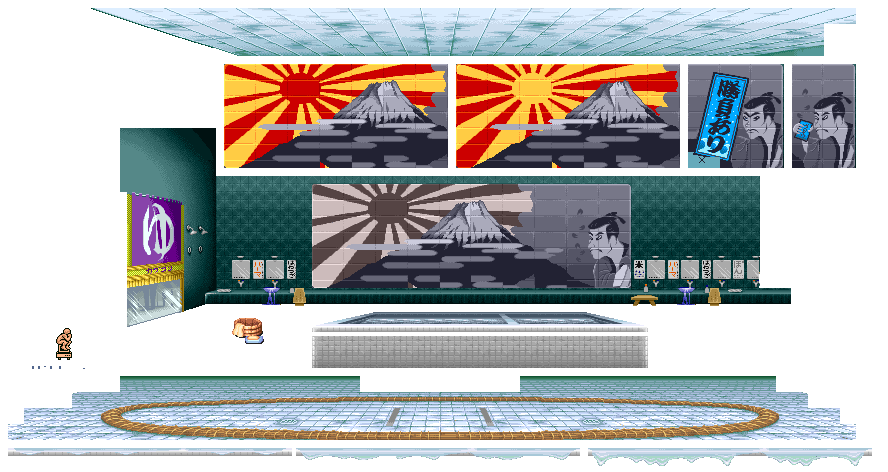
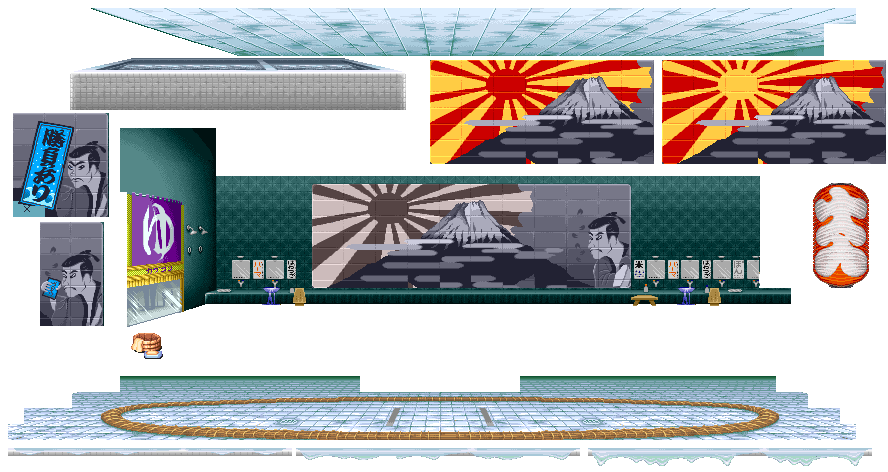
Honda stage

diff --git a/SDL Game 2 - Master - Handout/ModulePlayer.cpp b/SDL Game 2 - Master - Handout/ModulePlayer.cpp
@@ -30,13 +30,15 @@ ModulePlayer::ModulePlayer(bool start_enabled) : Module(start_enabled)
 	backward.speed = 0.1f;
 
 	// TODO 8: setup the walk forward animation from ryu4.png
-	forward.frames.push_back({ 0, 131, 61, 87 });
-	forward.frames.push_back({ 70, 129, 59, 90 });
-	forward.frames.push_back({ 140, 128, 57, 90 });
-	forward.frames.push_back({ 797, 127, 57, 90 });
-	forward.frames.push_back({ 883, 128, 58, 91 });
-	forward.frames.push_back({ 974, 129, 57, 89 });
+	forward.frames.push_back({ 0, 127, 68, 93 });
+	forward.frames.push_back({ 78, 127, 68, 93 });
+	forward.frames.push_back({ 161, 127, 68, 93 });
+	forward.frames.push_back({ 251, 127, 73, 93 });
+	forward.frames.push_back({ 341, 127, 68, 93 });
+	forward.frames.push_back({ 419, 127, 68, 93 });
 	forward.speed = 0.1f;
+
+	currentAnimation = &forward;
 }
 
 ModulePlayer::~ModulePlayer()
@@ -50,6 +52,8 @@ bool ModulePlayer::Start()
 	LOG("Loading player");
 
 	graphics = App->textures->Load("ryu4.png"); // arcade version
+
+	playerX = 80;
 
 	return true;
 }
@@ -70,7 +74,62 @@ update_status ModulePlayer::Update()
 	// TODO 9: Draw the player with its animation
 	// make sure to detect player movement and change its
 	// position while cycling the animation(check Animation.h)
-	App->renderer->Blit(graphics, 80, 104, &(idle.GetCurrentFrame()), 0.87f); // flag animation
+	if (App->input->GetKey(SDL_SCANCODE_A) == KEY_DOWN || App->input->GetKey(SDL_SCANCODE_A) == KEY_REPEAT)
+	{
+		if (App->input->GetKey(SDL_SCANCODE_A) == KEY_DOWN)
+			backward.ResetAnimation();
+
+		playerX -= (int)playerMovement;
+		App->renderer->Blit(graphics, playerX, 104, &(backward.GetCurrentFrame()), 0.87f);
+	}
+	else if (App->input->GetKey(SDL_SCANCODE_A) == KEY_UP)
+	{
+		idle.ResetAnimation();
+		App->renderer->Blit(graphics, playerX, 104, &(idle.GetCurrentFrame()), 0.87f);
+	}
+	else if (App->input->GetKey(SDL_SCANCODE_D) == KEY_DOWN || App->input->GetKey(SDL_SCANCODE_D) == KEY_REPEAT)
+	{
+		if (App->input->GetKey(SDL_SCANCODE_D) == KEY_DOWN)
+			forward.ResetAnimation();
+
+		playerX += (int)playerMovement;
+		App->renderer->Blit(graphics, playerX, 104, &(forward.GetCurrentFrame()), 0.87f);
+	}
+	else if (App->input->GetKey(SDL_SCANCODE_D) == KEY_UP)
+	{
+		idle.ResetAnimation();
+		App->renderer->Blit(graphics, playerX, 104, &(idle.GetCurrentFrame()), 0.87f);
+	}
+	else
+	{
+		App->renderer->Blit(graphics, playerX, 104, &(idle.GetCurrentFrame()), 0.87f);
+	}
+
+	/*if (App->input->GetKey(SDL_SCANCODE_F) == KEY_DOWN)
+	{
+		currentAnimation = &forward;
+	}
+
+	if (App->input->GetKey(SDL_SCANCODE_I) == KEY_DOWN)
+	{
+		currentAnimation = &idle;
+	}
+
+	if (App->input->GetKey(SDL_SCANCODE_B) == KEY_DOWN)
+	{
+		currentAnimation = &backward;
+	}
+
+	if (App->input->GetKey(SDL_SCANCODE_A) == KEY_DOWN )
+	{
+		currentAnimation->PriorFrame();
+	}
+	else if (App->input->GetKey(SDL_SCANCODE_D) == KEY_DOWN)
+	{
+		currentAnimation->NextFrame();
+	}
+
+	App->renderer->Blit(graphics, playerX, 104, &(currentAnimation->GetFrame()), 0.87f);*/
 
 	return UPDATE_CONTINUE;
 }

diff --git a/SDL Game 2 - Master - Handout/ModuleSceneHonda.cpp b/SDL Game 2 - Master - Handout/ModuleSceneHonda.cpp
@@ -1,0 +1,103 @@
+#include "Globals.h"
+#include "Application.h"
+#include "ModuleSceneHonda.h"
+#include "ModuleRender.h"
+#include "ModuleTextures.h"
+#include "ModulePlayer.h"
+#include "ModuleInput.h"
+#include "ModuleAudio.h"
+#include "ModuleFadeToBlack.h"
+#include "SDL/include/SDL.h"
+
+ModuleSceneHonda::ModuleSceneHonda(bool start_enabled): Module(start_enabled)
+{
+	// ground
+	ground.x = 8;
+	ground.y = 376;
+	ground.w = 847;
+	ground.h = 63;
+
+	//background
+	background.x = 120;
+	background.y = 128;
+	background.w = 670;
+	background.h = 198;
+
+	//ceiling
+	ceiling.x = 91;
+	ceiling.y = 8;
+	ceiling.w = 764;
+	ceiling.h = 47;
+
+	//pool
+	pool.x = 70;
+	pool.y = 58;
+	pool.w = 335;
+	pool.h = 50;
+
+	//lamp
+	lamp.x = 813;
+	lamp.y = 183;
+	lamp.w = 55;
+	lamp.h = 104;
+
+	// water animation
+	water.frames.push_back({ 0, 0, 0, 0 });
+	water.frames.push_back({ 8, 448, 283, 17 });
+	water.frames.push_back({ 296, 448, 283, 17 });
+	water.frames.push_back({ 588, 448, 283, 17 });
+	water.speed = 0.05f;
+}
+
+
+ModuleSceneHonda::~ModuleSceneHonda()
+{
+}
+
+// Load assets
+bool ModuleSceneHonda::Start()
+{
+	LOG("Loading honda scene");
+
+	graphics = App->textures->Load("honda_stage.png");
+
+	App->player->Enable();
+	App->audio->PlayMusic("honda.ogg");
+
+	return true;
+}
+
+// UnLoad assets
+bool ModuleSceneHonda::CleanUp()
+{
+	LOG("Unloading honda scene");
+
+	App->textures->Unload(graphics);
+	App->player->Disable();
+
+	return true;
+}
+
+// Update: draw background
+update_status ModuleSceneHonda::Update()
+{
+	// Draw everything --------------------------------------
+	App->renderer->Blit(graphics, -9, 174, &ground); // floor
+	App->renderer->Blit(graphics, 47, -1, &background, 0.75f); //background
+	App->renderer->Blit(graphics, 0, 0, &ceiling, 0.75f); //ceiling
+	App->renderer->Blit(graphics, 285, 143, &pool); //pool
+	App->renderer->Blit(graphics, 310, 155, &(water.GetCurrentFrame())); // pool animation
+	App->renderer->Blit(graphics, 155, 10, &lamp); //lamp1
+	App->renderer->Blit(graphics, 675, 10, &lamp); //lamp2
+
+
+	// TODO 11: Make that pressing space triggers a switch to ken logic module
+	// using FadeToBlack module
+	if (App->input->GetKey(SDL_SCANCODE_SPACE) == KEY_DOWN)
+	{
+		App->fade->FadeToBlack(App->scene_ken, this);
+		App->fade->Enable();
+	}
+
+	return UPDATE_CONTINUE;
+}

diff --git a/SDL Game 2 - Master - Handout/ModuleSceneKen.cpp b/SDL Game 2 - Master - Handout/ModuleSceneKen.cpp
@@ -61,7 +61,8 @@ bool ModuleSceneKen::Start()
 	// TODO 7: Enable the player module
 	App->player->Enable();
 	// TODO 0: trigger background music
-	
+	App->audio->PlayMusic("ken.ogg");
+
 	return true;
 }
 
@@ -101,15 +102,15 @@ update_status ModuleSceneKen::Update()
 
 	// Draw everything --------------------------------------
 	// TODO 1: Tweak the movement speed of the sea&sky + flag to your taste
-	App->renderer->Blit(graphics, 0, 0, &background, 0.75f); // sea and sky
-	App->renderer->Blit(graphics, 560, 8, &(flag.GetCurrentFrame()), 0.75f); // flag animation
+	//App->renderer->Blit(graphics, 0, 0, &background, 0.75f); // sea and sky
+	//App->renderer->Blit(graphics, 560, 8, &(flag.GetCurrentFrame()), 0.75f); // flag animation
 
 	// TODO 3: Draw the ship. Be sure to tweak the speed.
 	
-	App->renderer->Blit(graphics, 0, (int)yShipOffset, &ship, 0.87f); // sea and sky
+	//App->renderer->Blit(graphics, 0, (int)yShipOffset, &ship, 0.87f); // sea and sky
 
 	// TODO 6: Draw the girl. Make sure it follows the ship movement!
-	App->renderer->Blit(graphics, 192, 104 + (int)yShipOffset, &(shipGirl.GetCurrentFrame()), 0.87f); // flag animation
+	//App->renderer->Blit(graphics, 192, 104 + (int)yShipOffset, &(shipGirl.GetCurrentFrame()), 0.87f); // flag animation
 
 	App->renderer->Blit(graphics, 0, 170, &ground);
 
@@ -118,6 +119,12 @@ update_status ModuleSceneKen::Update()
 
 	// TODO 11: Make that pressing space triggers a switch to honda logic module
 	// using FadeToBlack module
+	if (App->input->GetKey(SDL_SCANCODE_SPACE) == KEY_DOWN)
+	{
+		App->fade->FadeToBlack(App->scene_honda, this);
+		App->fade->Enable();
+	}
+		
 
 	return UPDATE_CONTINUE;
 }

diff --git a/SDL Game 2 - Master - Handout/Application.cpp b/SDL Game 2 - Master - Handout/Application.cpp
@@ -5,7 +5,6 @@
 #include "ModuleInput.h"
 #include "ModuleAudio.h"
 #include "ModuleFadeToBlack.h"
-#include "ModuleSceneKen.h"
 #include "ModulePlayer.h"
 
 using namespace std;
@@ -22,6 +21,7 @@ Application::Application()
 
 	// Game Modules
 	modules.push_back(scene_ken = new ModuleSceneKen(false));
+	modules.push_back(scene_honda = new ModuleSceneHonda(false));
 	modules.push_back(player = new ModulePlayer(false));
 	
 	modules.push_back(fade = new ModuleFadeToBlack());
@@ -47,7 +47,7 @@ bool Application::Init()
 	}
 
 	// Start the first scene --
-	fade->FadeToBlack(scene_ken, nullptr, 3.0f);
+	fade->FadeToBlack(scene_honda, nullptr, 3.0f);
 
 	return ret;
 }

diff --git a/SDL Game 2 - Master - Handout/Animation.h b/SDL Game 2 - Master - Handout/Animation.h
@@ -16,11 +16,34 @@ public:
 	Animation() : frames(), speed(1.0f), current_frame(0.0f)
 	{}
 
+	
+
 	SDL_Rect& GetCurrentFrame()
 	{
 		current_frame += speed;
 		if(current_frame >= frames.size())
 			current_frame = 0.0f;
+		return frames[(int)current_frame];
+	}
+
+	void ResetAnimation() { current_frame = 0.0f; }
+
+	void NextFrame()
+	{
+		current_frame += 1.0f;
+		if (current_frame >= frames.size())
+			current_frame = 0.0f;
+	}
+
+	void PriorFrame()
+	{
+		current_frame -= 1.0f;
+		if (current_frame < 0.0f)
+			current_frame = frames.size() - 1.0f;
+	}
+
+	SDL_Rect& GetFrame()
+	{
 		return frames[(int)current_frame];
 	}
 };

diff --git a/SDL Game 2 - Master - Handout/Application.h b/SDL Game 2 - Master - Handout/Application.h
@@ -4,6 +4,8 @@
 #include<list>
 #include "Globals.h"
 #include "Module.h"
+#include "ModuleSceneKen.h"
+#include "ModuleSceneHonda.h"
 
 class ModuleRender;
 class ModuleWindow;
@@ -12,7 +14,8 @@ class ModuleInput;
 class ModuleAudio;
 class ModuleFadeToBlack;
 class ModulePlayer;
-class ModuleSceneKen;
+//class ModuleSceneKen;
+//class ModuleSceneHonda;
 
 class Application
 {
@@ -34,6 +37,7 @@ public:
 	ModuleFadeToBlack* fade;
 	ModulePlayer* player;
 	ModuleSceneKen* scene_ken;
+	ModuleSceneHonda* scene_honda;
 
 private:
 

diff --git a/SDL Game 2 - Master - Handout/ModuleSceneHonda.h b/SDL Game 2 - Master - Handout/ModuleSceneHonda.h
@@ -1,0 +1,27 @@
+#pragma once
+#include "Module.h"
+#include "Animation.h"
+#include "Globals.h"
+
+struct SDL_Texture;
+
+class ModuleSceneHonda : public Module
+{
+public:
+	ModuleSceneHonda(bool start_enabled = true);
+	~ModuleSceneHonda();
+
+	bool Start();
+	update_status Update();
+	bool CleanUp();
+
+	SDL_Texture* graphics = nullptr;
+	SDL_Rect ground;
+	SDL_Rect background;
+	SDL_Rect pool;
+	SDL_Rect ceiling;
+	SDL_Rect lamp;
+	Animation water;
+};
+
+

diff --git a/SDL Game 2 - Master - Handout/ModuleRender.cpp b/SDL Game 2 - Master - Handout/ModuleRender.cpp
@@ -93,7 +93,8 @@ bool ModuleRender::Blit(SDL_Texture* texture, int x, int y, SDL_Rect* section, f
 	bool ret = true;
 	SDL_Rect rect;
 	rect.x = (int)(camera.x * speed) + x * SCREEN_SIZE;
-	rect.y = (int)(camera.y * speed) + y * SCREEN_SIZE;
+	//rect.y = (int)(camera.y * speed) + y * SCREEN_SIZE;
+	rect.y =(camera.y) + y * SCREEN_SIZE;
 
 	if(section != NULL)
 	{

diff --git a/SDL Game 2 - Master - Handout/ModulePlayer.h b/SDL Game 2 - Master - Handout/ModulePlayer.h
@@ -10,6 +10,11 @@ struct SDL_Texture;
 
 class ModulePlayer : public Module
 {
+private:
+	const float playerMovement = 1.0f;
+	int playerX;
+	Animation* currentAnimation;
+
 public:
 	ModulePlayer(bool start_enabled = true);
 	~ModulePlayer();

diff --git a/SDL Game 2 - Master - Handout/Module.h b/SDL Game 2 - Master - Handout/Module.h
@@ -10,7 +10,7 @@ public:
 	Module(bool active = true) : active(active)
 	{}
 
-	~Module()
+	virtual ~Module()
 	{}
 
 	bool IsEnabled() const
